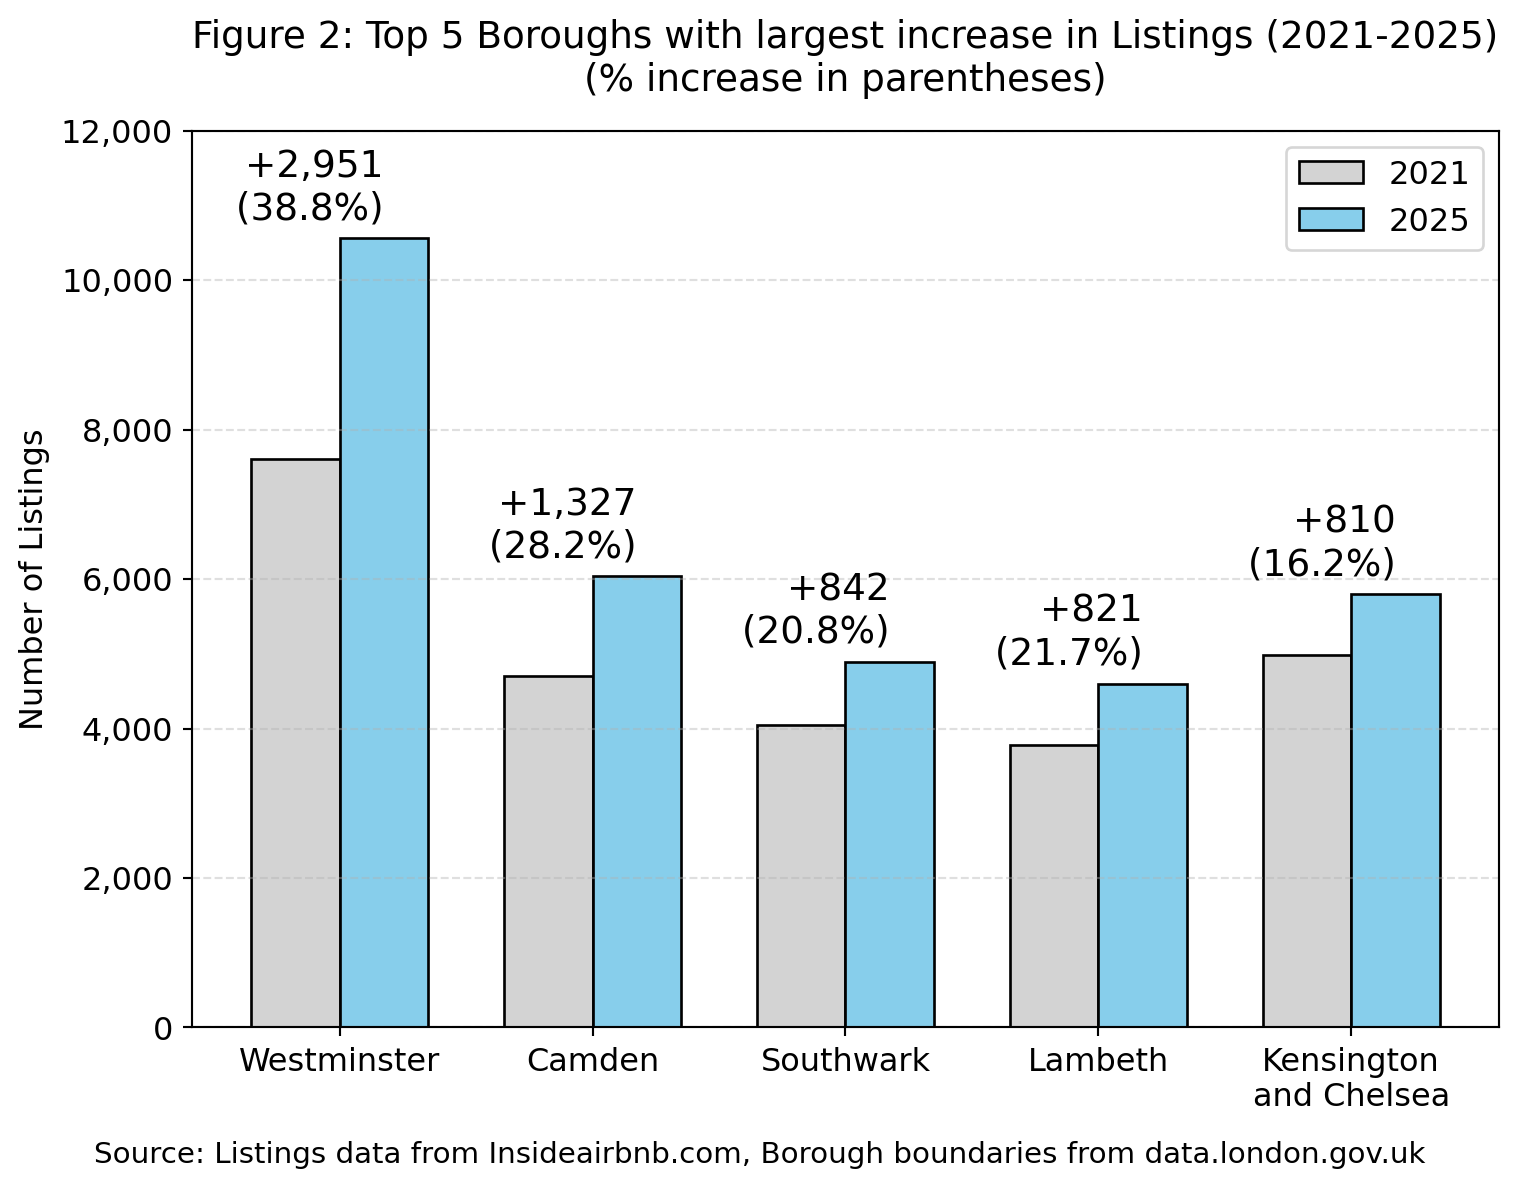
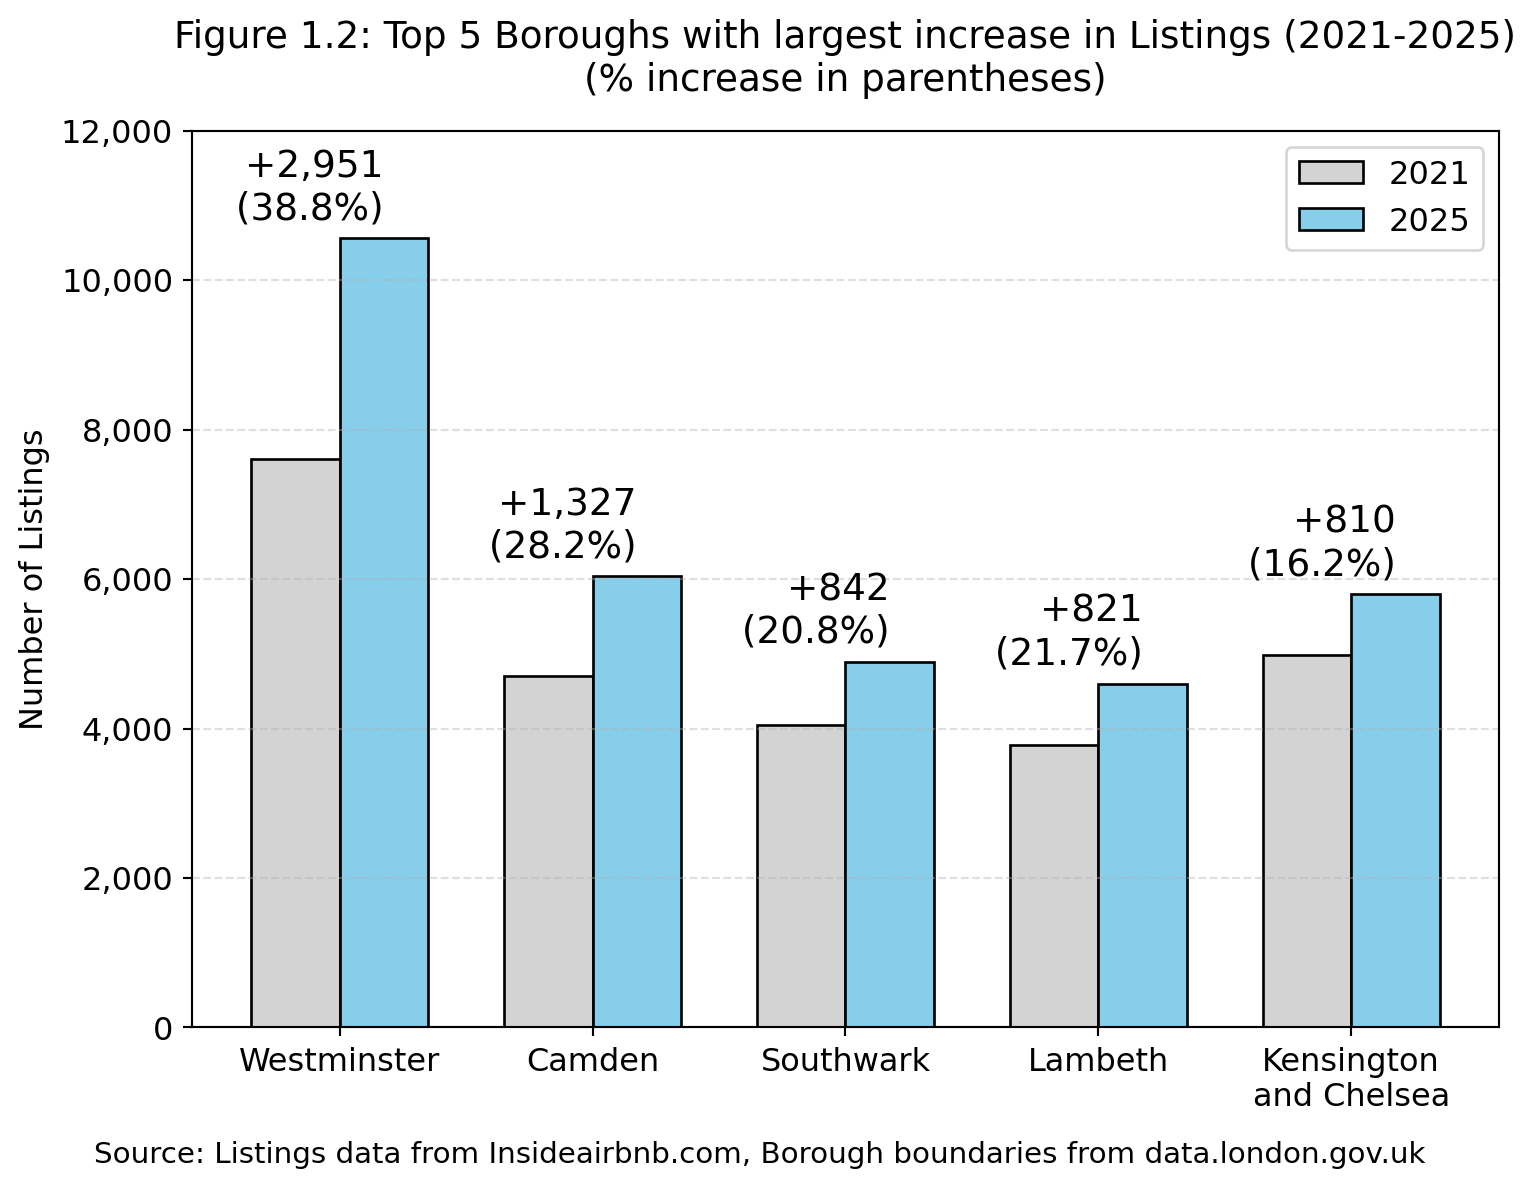
Updated charts

diff --git a/Drafts/Wk 8/Draft_Week8.html b/Drafts/Wk 8/Draft_Week8.html
@@ -167,14 +167,14 @@ ul.task-list li input[type="checkbox"] {
 <section id="what-is-the-growth-trend-in-airbnb-listings-across-london" class="level4">
 <h4 class="anchored" data-anchor-id="what-is-the-growth-trend-in-airbnb-listings-across-london">1.1 What is the growth trend in Airbnb listings across London?</h4>
 <ul>
-<li><p>From 2021-2025, Airbnb listings across London<a href="#fn1" class="footnote-ref" id="fnref1" role="doc-noteref"><sup>1</sup></a> increased by <strong>almost 25%</strong> from <strong>69,398 to 86,463 listings</strong>. <u>Figure 1</u> summarizes the spatial distribution and growth trends<a href="#fn2" class="footnote-ref" id="fnref2" role="doc-noteref"><sup>2</sup></a>.</p></li>
+<li><p>From 2021-2025, Airbnb listings across London<a href="#fn1" class="footnote-ref" id="fnref1" role="doc-noteref"><sup>1</sup></a> increased by <strong>25%</strong> from <strong>69,398 to 86,463 listings</strong>. <u>Figure 1.1</u> summarizes the spatial distribution and growth trends<a href="#fn2" class="footnote-ref" id="fnref2" role="doc-noteref"><sup>2</sup></a>.</p></li>
 <li><p>Overall growth was largely driven by a <strong>sharp increase in listings from 2022-2023 (↑24%),</strong> due to higher host registrations and marketing efforts. Growth rates over the last two years have moderated.</p></li>
 </ul>
-<div id="9c856ebc" class="cell" data-execution_count="7">
+<div id="44dab0b6" class="cell" data-execution_count="7">
 <div class="cell-output cell-output-display">
 <div>
 <figure class="figure">
-<p><img src="Draft_Week8_files/figure-html/cell-8-output-1.png" width="912" height="376" class="figure-img"></p>
+<p><img src="Draft_Week8_files/figure-html/cell-8-output-1.png" width="685" height="502" class="figure-img"></p>
 </figure>
 </div>
 </div>
@@ -183,13 +183,13 @@ ul.task-list li input[type="checkbox"] {
 <section id="which-areas-saw-the-fastest-growth-in-airbnb-listings" class="level4">
 <h4 class="anchored" data-anchor-id="which-areas-saw-the-fastest-growth-in-airbnb-listings">1.2 Which areas saw the fastest growth in Airbnb listings?</h4>
 <ul>
-<li>From 2021-2025, central areas of London generally saw larger increases. The borough of Westminster saw the <strong>largest increase (close to 40%)</strong> to reach <strong>10,588 listings in 2025</strong> (<u>Figure 2</u>).</li>
+<li>From 2021-2025, central areas of London generally saw larger increases. The borough of Westminster saw the <strong>largest increase (close to 40%)</strong> to reach <strong>10,588 listings in 2025</strong> (<u>Figure 1.2</u>).</li>
 </ul>
-<div id="b391d00e" class="cell" data-execution_count="9">
+<div id="d1dc4f39" class="cell" data-execution_count="9">
 <div class="cell-output cell-output-display">
 <div>
 <figure class="figure">
-<p><img src="Draft_Week8_files/figure-html/cell-10-output-1.png" width="759" height="594" class="figure-img"></p>
+<p><img src="Draft_Week8_files/figure-html/cell-10-output-1.png" width="768" height="594" class="figure-img"></p>
 </figure>
 </div>
 </div>
@@ -198,9 +198,9 @@ ul.task-list li input[type="checkbox"] {
 <section id="how-does-this-compare-to-changes-in-the-overall-housing-stock" class="level4">
 <h4 class="anchored" data-anchor-id="how-does-this-compare-to-changes-in-the-overall-housing-stock">1.3 How does this compare to changes in the overall housing stock?</h4>
 <ul>
-<li>From 2020-2024, total housing stock in London only increased from <strong>3.68M</strong> to <strong>3.81M properties</strong> (<u>Figure 3</u>, data for 2025 unavailable), with a <strong>much slower growth rate of around 3.7%, over the last five years</strong>. Amidst robust demand and a tight housing market, the faster increase in properties for short-term rental relative to housing stock could have exacerbated pressures on housing prices and rents (<a href="https://discovery.ucl.ac.uk/id/eprint/10124650/7/Musah_23998083211001836.pdf">Todd, Musah &amp; Cheshire (2022)</a>).</li>
+<li>From 2020-2024, total housing stock in London only increased from <strong>3.68M</strong> to <strong>3.81M properties</strong> (<u>Figure 1.3</u>, data for 2025 unavailable), with a <strong>much slower growth rate of around 3.7%, over the last five years</strong>. Amidst robust demand and a tight housing market, the faster increase in properties for short-term rental relative to housing stock could have exacerbated pressures on housing prices and rents (<a href="https://discovery.ucl.ac.uk/id/eprint/10124650/7/Musah_23998083211001836.pdf">Todd, Musah &amp; Cheshire (2022)</a>).</li>
 </ul>
-<div id="b7d8c535" class="cell" data-execution_count="12">
+<div id="99764fde" class="cell" data-execution_count="12">
 <div class="cell-output cell-output-display">
 <div>
 <figure class="figure">
@@ -210,13 +210,13 @@ ul.task-list li input[type="checkbox"] {
 </div>
 </div>
 <ul>
-<li><strong>Inner London boroughs (orange bars in <u>Figure 4</u>) saw a higher ratio of increases in Airbnb listings compared to increases in housing stock</strong>. Kensington and Chelsea experienced listing growth that was 5 times that of housing stock growth and faced the largest impact of listings growth. &nbsp;</li>
+<li><strong>Inner London boroughs (orange bars in <u>Figure 1.4</u>) saw a higher ratio of increases in Airbnb listings compared to increases in housing stock</strong>. Kensington and Chelsea experienced listing growth that was 5 times that of housing stock growth and faced the largest impact of listings growth. &nbsp;</li>
 </ul>
-<div id="a59ad047" class="cell" data-execution_count="14">
+<div id="14f75417" class="cell" data-execution_count="14">
 <div class="cell-output cell-output-display">
 <div>
 <figure class="figure">
-<p><img src="Draft_Week8_files/figure-html/cell-15-output-1.png" width="1013" height="612" class="figure-img"></p>
+<p><img src="Draft_Week8_files/figure-html/cell-15-output-1.png" width="765" height="612" class="figure-img"></p>
 </figure>
 </div>
 </div>
@@ -225,21 +225,21 @@ ul.task-list li input[type="checkbox"] {
 <section id="what-is-the-situation-at-the-borough--and-msoa-levels-in-2025-are-issues-widespread-or-localised" class="level4">
 <h4 class="anchored" data-anchor-id="what-is-the-situation-at-the-borough--and-msoa-levels-in-2025-are-issues-widespread-or-localised">1.4 What is the situation at the Borough- and MSOA-levels in 2025? Are issues widespread or localised?</h4>
 <ul>
-<li>At the borough-level (<u>Figure 5</u>), the <strong>proportion of Airbnb listings compared to the overall housing stock ranged from 0.2% to 5.8%</strong>, with Inner London boroughs having a higher share of listings relative to housing stock. &nbsp;</li>
+<li>At the borough-level (<u>Figure 1.5</u>), the <strong>proportion of Airbnb listings compared to the overall housing stock ranged from 0.2% to 5.8%</strong>, with Inner London boroughs having a higher share of listings relative to housing stock. &nbsp;</li>
 </ul>
-<div id="935fc80a" class="cell" data-execution_count="16">
+<div id="fcda52af" class="cell" data-execution_count="16">
 <div class="cell-output cell-output-display">
 <div>
 <figure class="figure">
-<p><img src="Draft_Week8_files/figure-html/cell-17-output-1.png" width="778" height="612" class="figure-img"></p>
+<p><img src="Draft_Week8_files/figure-html/cell-17-output-1.png" width="787" height="612" class="figure-img"></p>
 </figure>
 </div>
 </div>
 </div>
 <ul>
-<li>At the MSOA-level, it becomes clearer that there are pockets of concentration of listings relative to housing stock in these Boroughs, with <strong>up to 1 in 8 homes (12.5%)</strong> listed for Airbnb (<u>Figure 6</u>). This high proportion could be driving negative sentiments in some parts of London that Airbnb could be out of control.</li>
+<li>At the MSOA-level, it becomes clearer that there are pockets of concentration of listings relative to housing stock in these Boroughs, with <strong>up to 1 in 8 homes (12.5%)</strong> listed for Airbnb (<u>Figure 1.6</u>). This high proportion could be driving negative sentiments in some parts of London that Airbnb could be out of control.</li>
 </ul>
-<div id="a55c620f" class="cell" data-execution_count="18">
+<div id="e3b73cc2" class="cell" data-execution_count="18">
 <div class="cell-output cell-output-display">
 <div>
 <figure class="figure">
@@ -251,6 +251,16 @@ ul.task-list li input[type="checkbox"] {
 </section>
 <section id="how-many-listings-potentially-breach-the-current-90-day-limit-for-rentals" class="level4">
 <h4 class="anchored" data-anchor-id="how-many-listings-potentially-breach-the-current-90-day-limit-for-rentals">1.5 How many listings potentially breach the current 90-day limit for rentals?</h4>
+<ul>
+<li><p>Since 2017, London planning rules state that <em>entire homes</em> let on platforms such as Airbnb should not be used for short term letting for more than <strong>90 nights per calendar year</strong>, without planning permission obtained for change of use. This prevents permanent housing from being converted into de facto holiday accommodation.</p></li>
+<li><p>To estimate potential breaches, we look at the subset of listings that are “entire homes / apartments”. In 2025, this was XXXX (XX%). Using the“estimated_occupancy_l365d” field, which estimates how many nights the listing was booked in the last 365 days, provides a useful proxy for annual use where raw daily calendar data are unavailable. We treat an entire home as a <strong>likely breach</strong> if “estimated_occupancy_l365d” &gt; 90.</p></li>
+<li><p>Using this definition:</p>
+<ul>
+<li><p><strong>12,082 entire home listings</strong> are estimated to be used for more than 90 nights per year.</p></li>
+<li><p>Close to <strong>2 in 10 of all entire homes listings</strong>, and <strong>around 1 in 8 of all listings in London.</strong></p></li>
+</ul></li>
+<li><p>This estimate is likely a conservative one, as we are unable to fully detect multiple listings of the same property, which owners could use to circumvent the 90 day rule and would not be captured by the proxy.</p></li>
+</ul>
 </section>
 <section id="why-might-this-be-a-problem-and-what-is-the-impact-on-communities" class="level4">
 <h4 class="anchored" data-anchor-id="why-might-this-be-a-problem-and-what-is-the-impact-on-communities">1.6 Why might this be a problem and what is the impact on communities?</h4>
